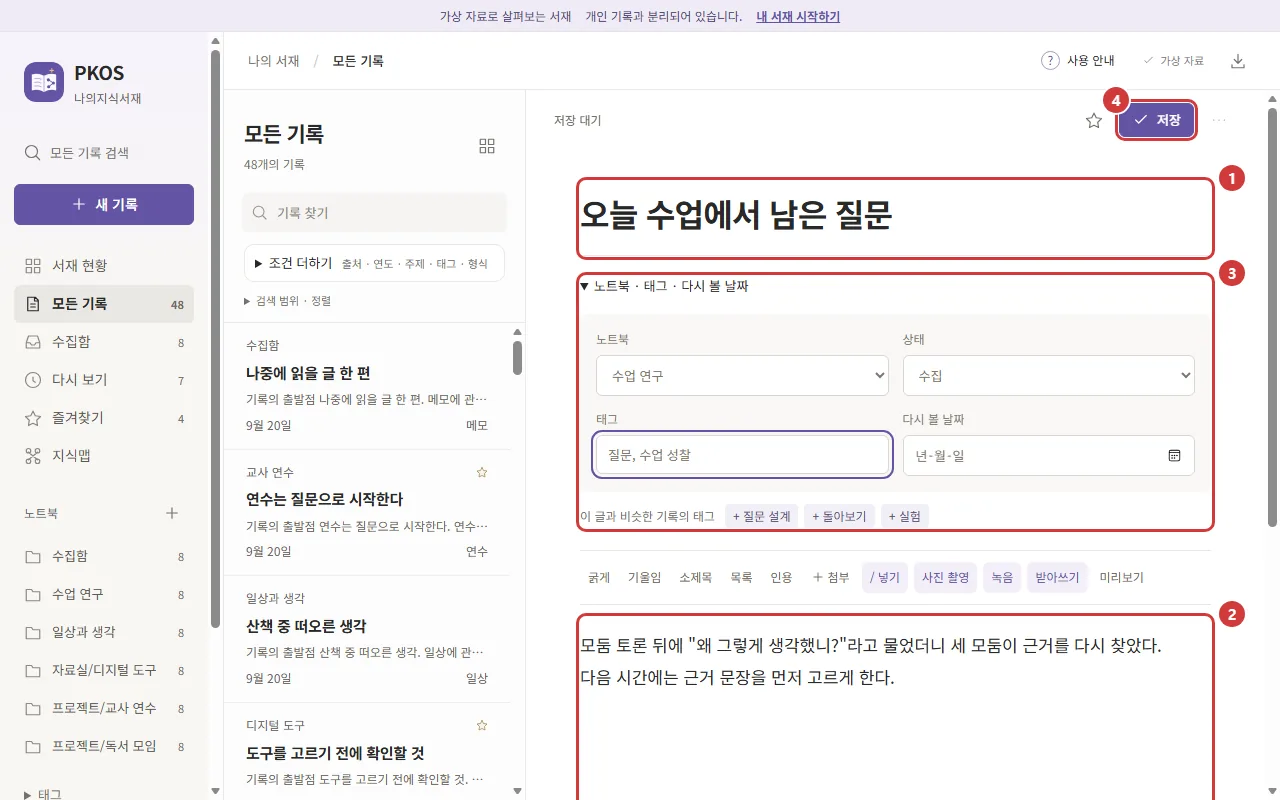
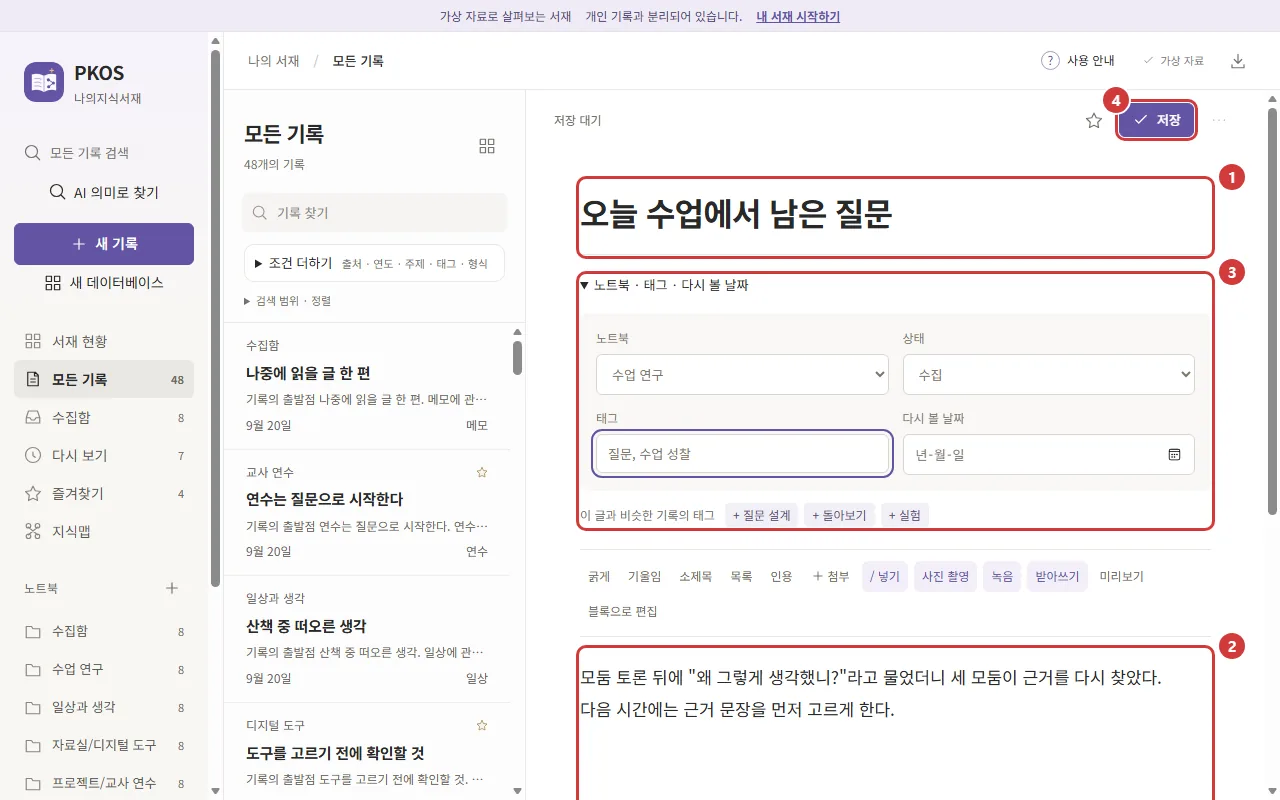
기록장 사진을 v34 화면으로 다시 만들고 블록 편집·데이터베이스 소개 더하기
- 설명서 그림에서 기록장 사진 22장을 다시 만듦(블록 편집·데이터베이스 사진 2장 새로)
- 기록장 소개 카드에 블록 편집·데이터베이스, 기기 안 글자 인식·음성 받아쓰기·의미로 찾기
- 05 블록에 「시간이 남으면」 안내와 사진 05-6·05-7

diff --git a/index.html b/index.html
@@ -70,7 +70,7 @@
       <article class="tool" style="--color:var(--blue)">
         <span class="kind">TOOL 1 · 기록장</span><h3>PKOS 나의지식서재</h3><p class="alias">기록하고 연결하는 개인 서재</p>
         <p>메모와 문서, 사진을 한곳에 보관하고 내 생각을 덧붙여 기록끼리 이어 줍니다. 로그인 없이 쓰며 기록은 내 브라우저에 저장됩니다.</p>
-        <ul><li>노트북과 태그로 정리하고 낱말로 찾기</li><li>서재 현황: 출처·연도·주제별 수, 조건 겹쳐 찾기, AI에게 건네기</li><li>자료 카드의 자료 정보와 구글 드라이브 미리보기(보기 전용)</li><li>문서 본문과 그림 꺼내기</li><li>2D·3D 지식맵</li><li>첨부까지 담는 백업, 마크다운 내보내기</li></ul>
+        <ul><li>노트북과 태그로 정리하고 낱말로 찾기</li><li>서재 현황: 출처·연도·주제별 수, 조건 겹쳐 찾기, AI에게 건네기</li><li>자료 카드의 자료 정보와 구글 드라이브 미리보기(보기 전용)</li><li>문서 본문과 그림 꺼내기</li><li>2D·3D 지식맵</li><li>블록 편집과 데이터베이스(표·보드·달력 등 8가지 보기, 관계·수식)</li><li>기기 안에서 하는 글자 인식, 음성 파일 받아쓰기, 의미로 찾기</li><li>첨부까지 담는 백업, 마크다운 내보내기</li></ul>
         <div class="toolfoot"><div class="toolbtns"><a class="toolopen" href="https://legoschool.github.io/pkos-library/?demo=1" target="_blank" rel="noopener">체험 서재 열기 ↗</a><a href="https://github.com/legoschool/pkos-library" target="_blank" rel="noopener">깃허브 저장소 ↗</a><a href="#b01">01–05 블록 보기</a></div><img src="qr/lib-repo.svg" alt="기록장 깃허브 저장소 QR 코드" width="96" height="96"></div>
       </article>
       <article class="tool" style="--color:var(--green)">
@@ -240,6 +240,11 @@
         <figure><button class="photobutton tall" type="button"><img src="img/lib-reset.webp" alt="체험 서재 되돌리기 확인 창" data-number="05-5" loading="lazy"></button><figcaption><span class="photonum">사진 05-5</span>체험 서재 되돌리기 확인 창입니다. 내 서재는 바뀌지 않습니다.</figcaption></figure>
       </div>
       <aside class="callout warn"><h3>휴대폰과 PC는 저절로 맞춰지지 않습니다</h3><p>이 서재는 기록을 서버에 두지 않기 때문에 기기를 옮길 때마다 백업 파일을 내보내고 가져와야 합니다. 카드 파일을 가져왔거나 노트북을 크게 바꾼 날에는 한 번씩 내보내 두면 안심입니다.</p></aside>
+      <aside class="callout"><h3>시간이 남으면: 블록 편집과 데이터베이스</h3><p>기록을 쓰는 화면에서 「블록으로 편집」을 누르면 문단이 블록으로 나뉘어 끌어서 옮기고, 빈 블록에서 <code>/</code>를 쳐 표·접기·콜아웃을 넣습니다. 왼쪽 「새 데이터베이스」는 표를 만들어 보드·달력·타임라인으로 바꿔 보고, 관계와 수식으로 다른 표의 값을 더합니다. 글자 인식, 음성 파일 받아쓰기, 의미로 찾기까지 순서와 화면은 <a href="https://legoschool.github.io/pkos-library/manual/#new-tools" target="_blank" rel="noopener">사용 설명서의 「블록 편집과 데이터베이스」</a>에 있습니다.</p></aside>
+      <div class="photogrid">
+        <figure><button class="photobutton" type="button"><img src="img/lib-blocks.webp" alt="블록으로 나뉜 편집 화면" data-number="05-6" loading="lazy"></button><figcaption><span class="photonum">사진 05-6</span>「블록으로 편집」을 누른 화면입니다. ② 손잡이를 끌어 블록 순서를 옮깁니다.</figcaption></figure>
+        <figure><button class="photobutton" type="button"><img src="img/lib-database.webp" alt="데이터베이스 표 보기" data-number="05-7" loading="lazy"></button><figcaption><span class="photonum">사진 05-7</span>체험 서재에서 만든 데이터베이스입니다. 「준비물」 열은 다른 표와 이은 관계, 「준비 비용」은 이은 행의 금액을 더한 값입니다.</figcaption></figure>
+      </div>
     </div>
     <div class="mission"><h3>확인</h3><label class="complete"><input type="checkbox" data-check="b05"> 다운로드 폴더에서 백업 파일(.pkem)을 찾았습니다.</label><div class="notes"><label for="note-b05">메모</label><textarea id="note-b05" data-note="b05" placeholder="백업 파일을 보관할 곳을 정해 적어 두세요."></textarea></div></div>
     <nav class="pager"><a href="#b04">← 04 지식맵으로 연결 보기</a><a href="#b06">06 코랩으로 샘플 변환 →</a></nav>
